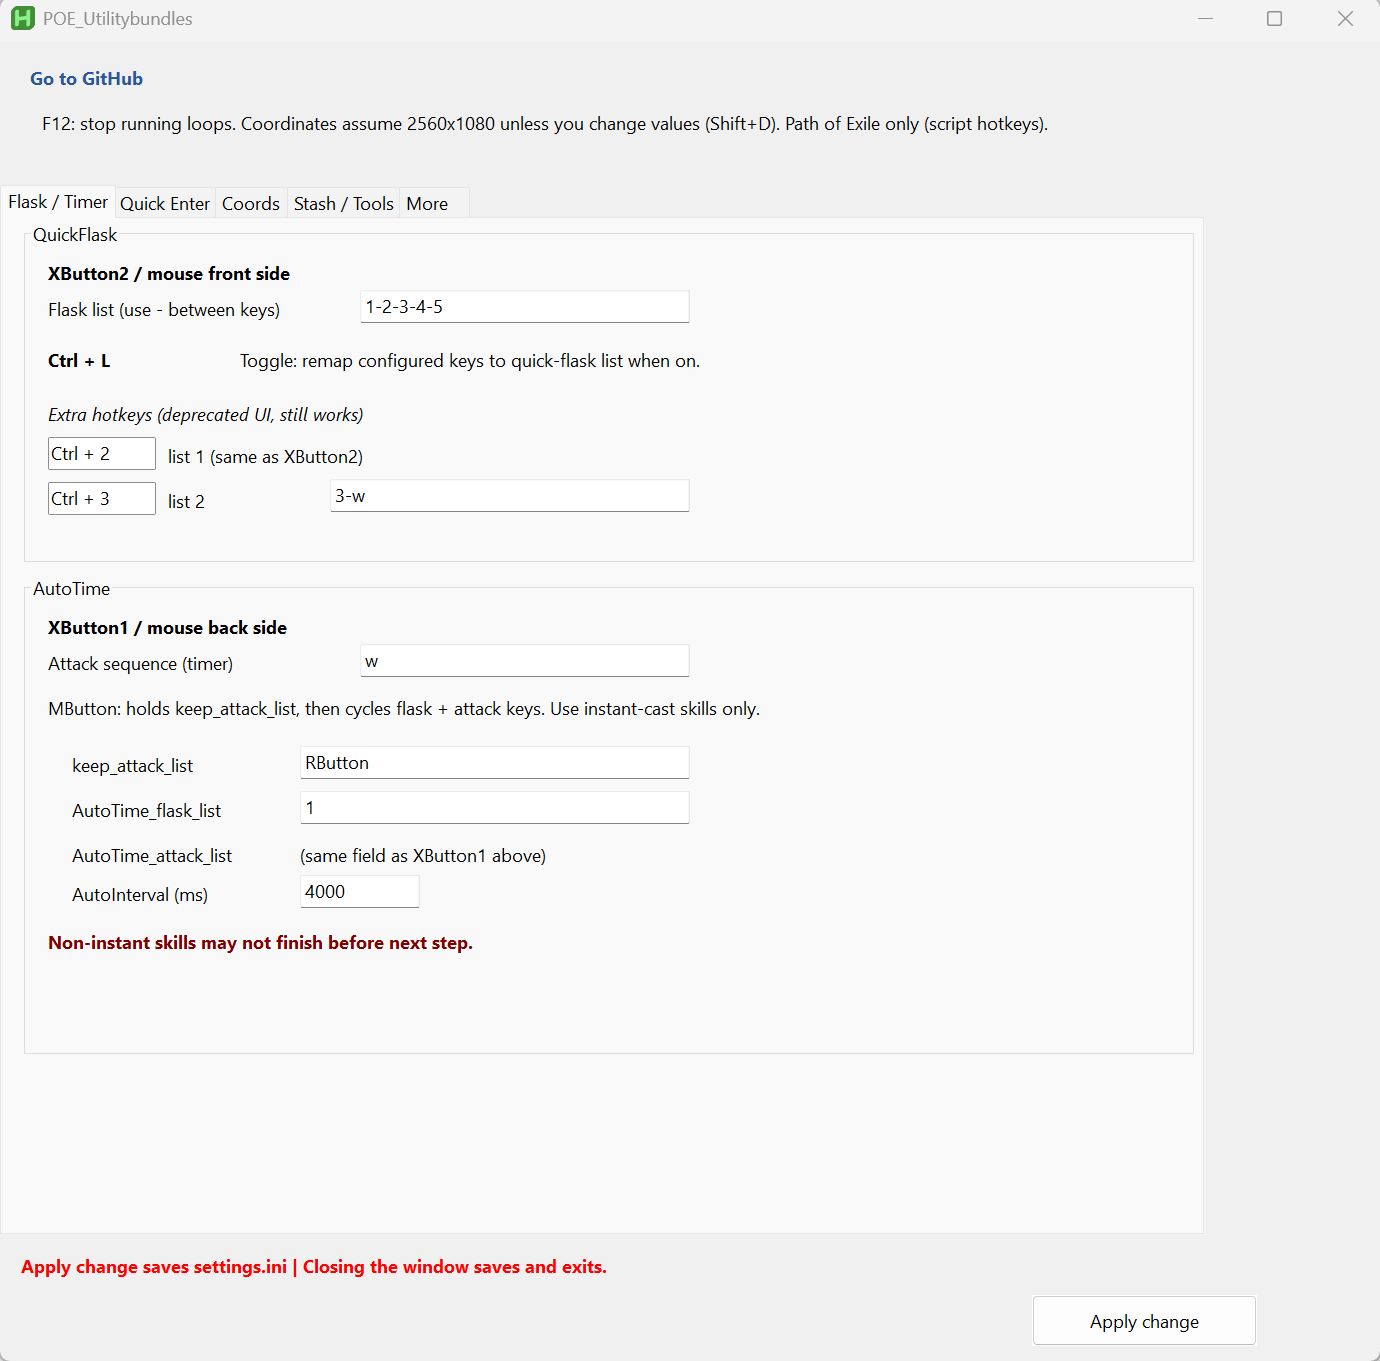
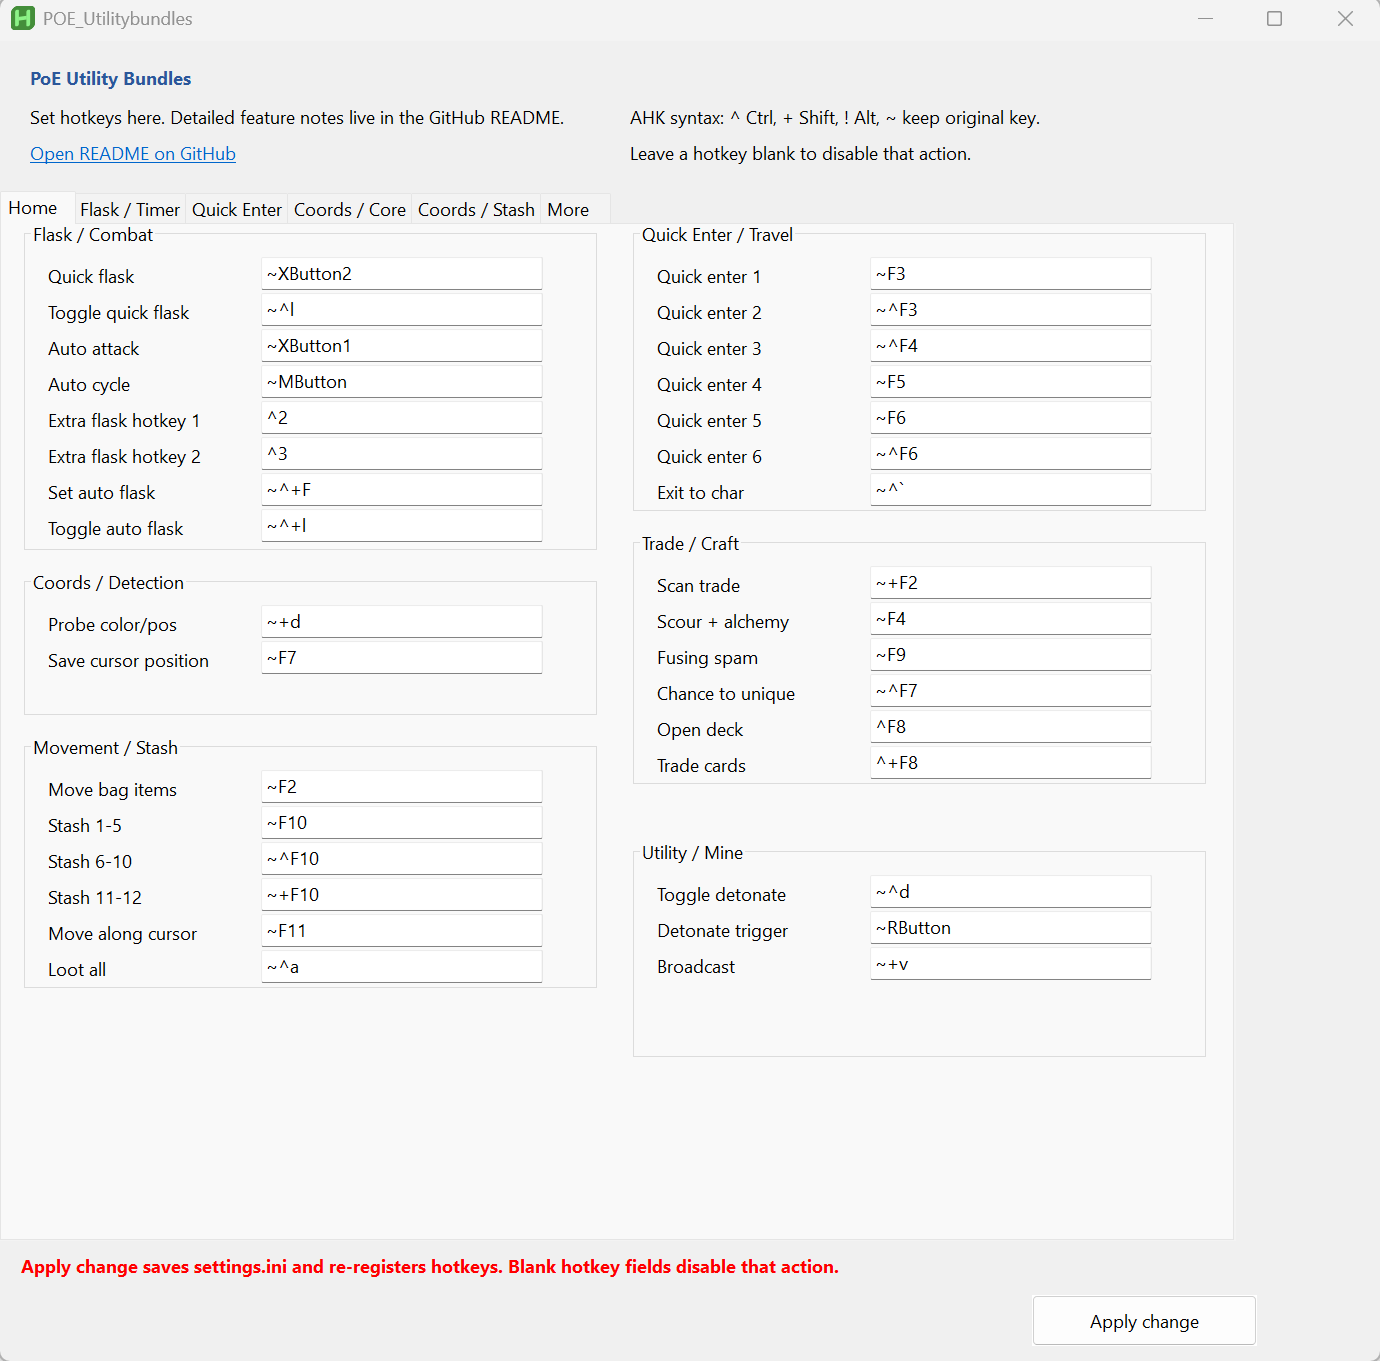
update readme

diff --git a/README-EN.md b/README-EN.md
@@ -77,7 +77,7 @@ The script requests administrator privileges automatically when launched.
 ### Quick Enter / Travel
 
 - `F3` / `Ctrl+F3` / `Ctrl+F4` / `F5` / `F6` / `Ctrl+F6`: send configurable chat text.
-- `Ctrl+```: quick `/exit` or any custom escape / travel text.
+- `Ctrl+`: quick `/exit` or any custom escape / travel text.
 - `Shift+V`: multi-channel trade broadcast using the configured message.
 
 ### Coordinates / Detection
